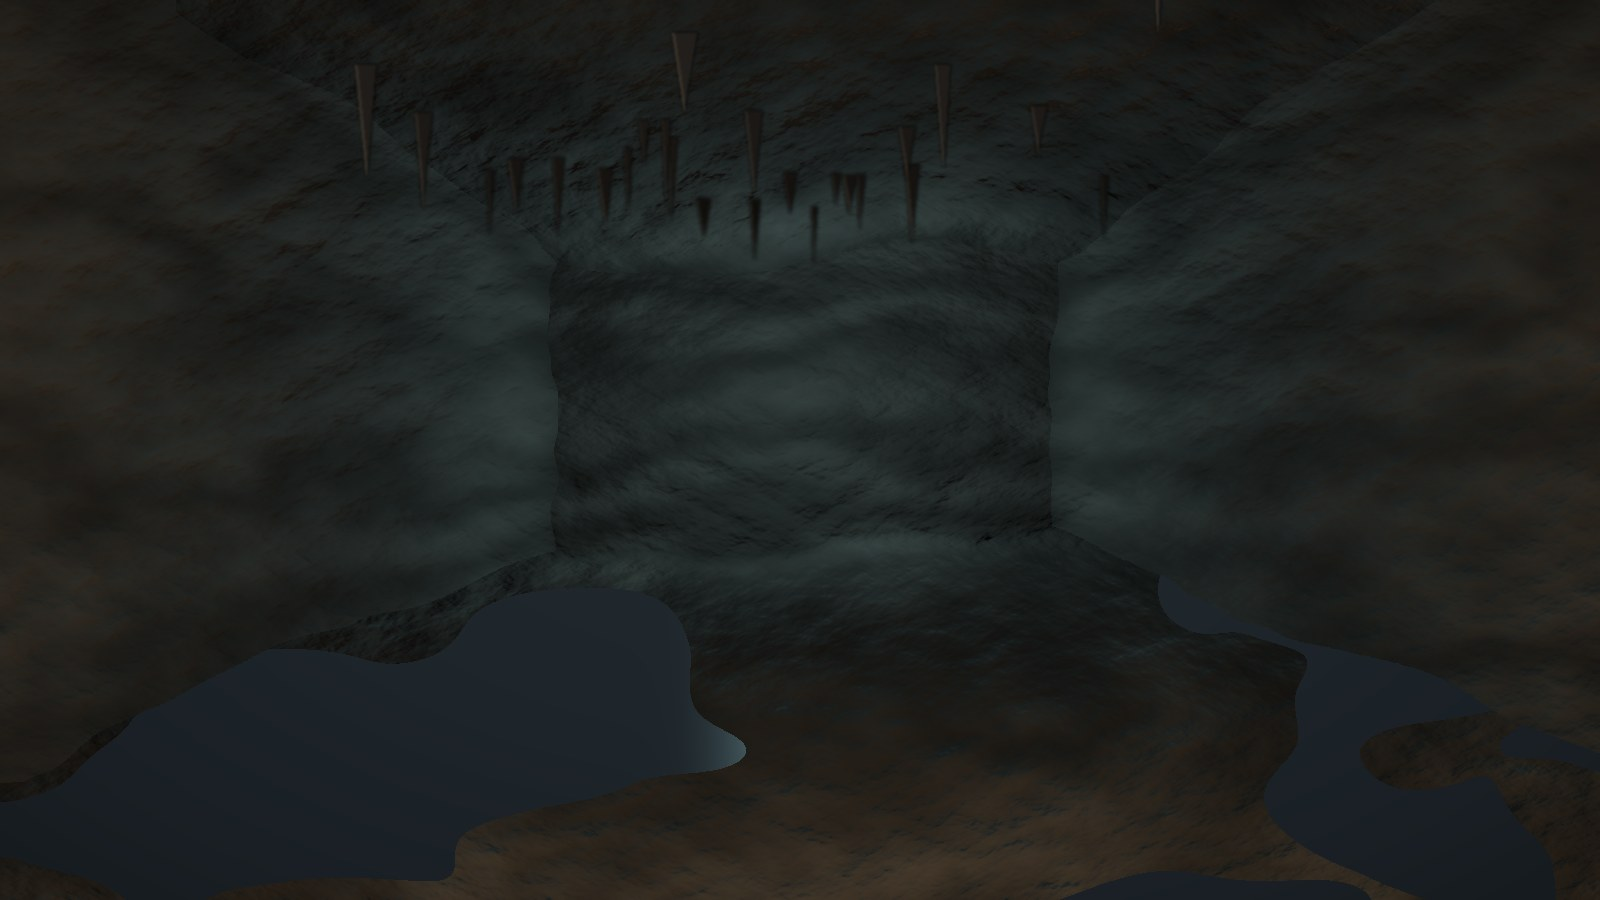
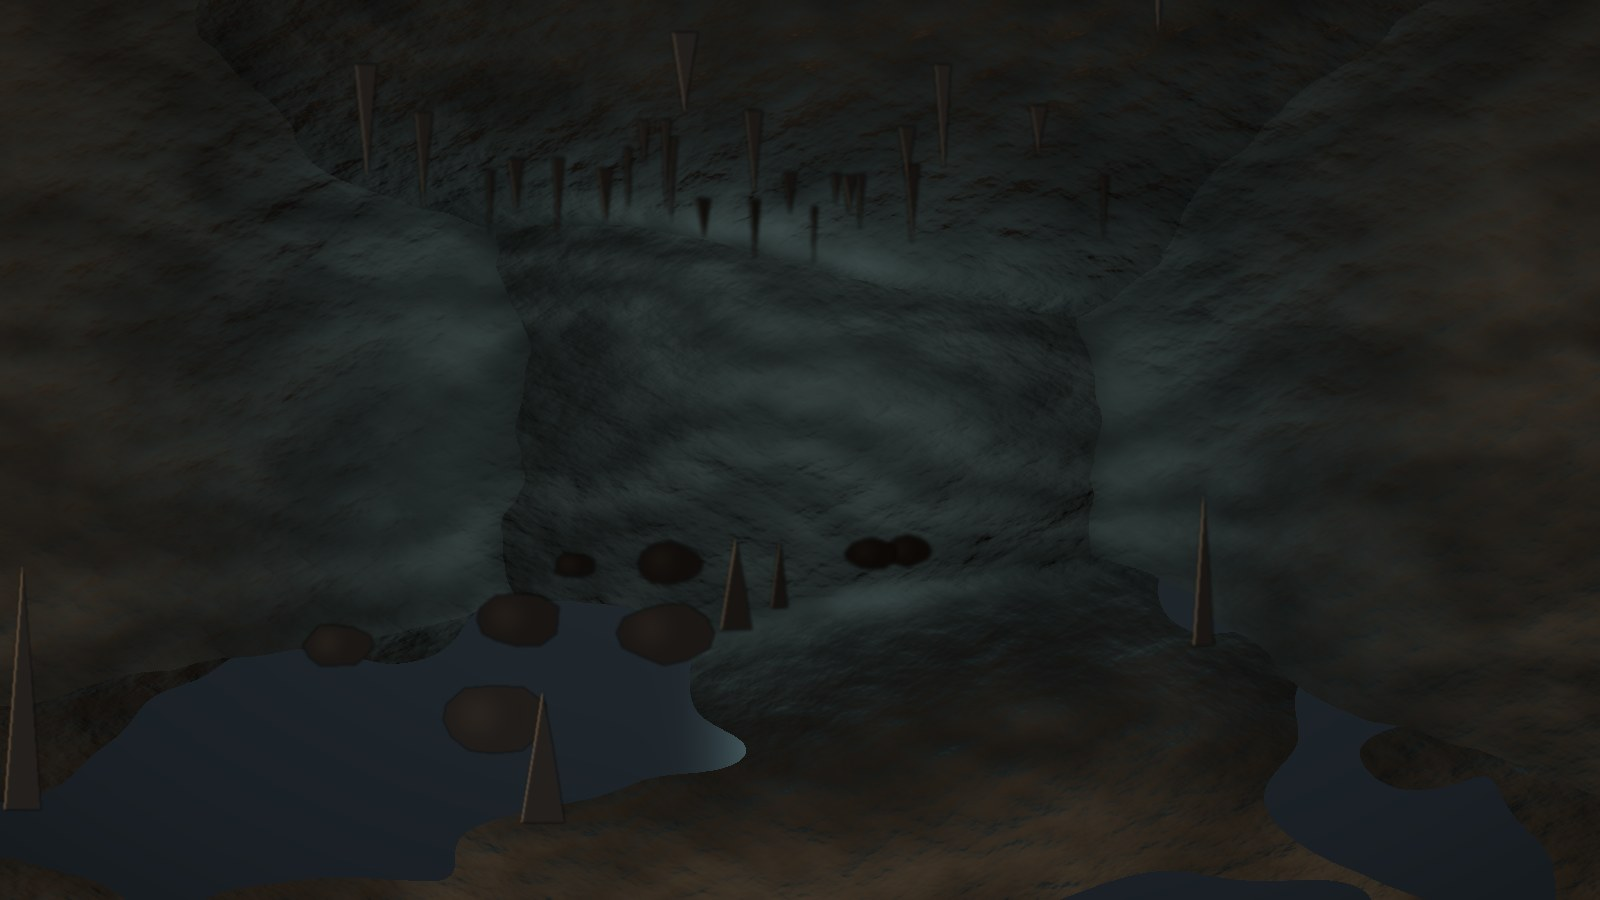
The first-unique scene rendered too; caves rounder, with rocks on the floor
- unique.jpg: a cloaked figure in a lit doorway at the end of a hall, its
  eyes shining, its shadow reaching toward you (scene_art_levels.py). It
  was the last public-domain painting: every scene picture is now rendered
  for AVABand, CC0. Credits, notices, README.
- Caverns and lairs: a broad warp bends the chamber's straight lines into
  curves (a fine one roughens them), and stalagmites and rounded, lit
  boulders stand on the floor.

diff --git a/tools/scene_art_levels.py b/tools/scene_art_levels.py
@@ -14,6 +14,7 @@ scene_art.py: surfaces in one-point perspective, lit by point lights.
   level-gauntlet.jpg   a narrow trapped corridor: plates in the floor, fire from the walls
   danger.jpg           a hall lit red from its far end, and many eyes
   death.jpg            a grave at dusk: a headstone, a dead tree, candles in the grass
+  unique.jpg           a figure in a doorway at the end of a hall, lit from behind, its eyes shining
 
 Needs numpy, scipy and Pillow. Usage: scene_art_levels.py <art folder> [name ...]
 """
@@ -151,9 +152,10 @@ def cave(seed, rock, tint_light, far_glow, water=True):
     light raking across bumps in it; pools on the floor. Returns the picture and its centre."""
     xs, ys = grid()
     # Warp where each pixel looks, so the chamber's edges and floor line come out ragged, like rock.
-    warp = 64
-    wx = (R.value_noise((H, W), 6, 4, seed=seed) - 0.5) * warp
-    wy = (R.value_noise((H, W), 6, 4, seed=seed + 1) - 0.5) * warp
+    # Two warps: a broad one that bends the chamber's straight lines into curves, and a fine one
+    # that roughens them.
+    wx = (R.value_noise((H, W), 2, 2, seed=seed + 20) - 0.5) * 260 + (R.value_noise((H, W), 9, 4, seed=seed) - 0.5) * 48
+    wy = (R.value_noise((H, W), 2, 2, seed=seed + 21) - 0.5) * 200 + (R.value_noise((H, W), 9, 4, seed=seed + 1) - 0.5) * 48
     kind, X, Y, Z, N = R.surfaces(-1.3, 0.8, 1.9, 10.0)
     ix = np.clip(xs + wx, 0, W - 1).astype(int)
     iy = np.clip(ys + wy, 0, H - 1).astype(int)
@@ -180,7 +182,48 @@ def cave(seed, rock, tint_light, far_glow, water=True):
     rgb = R.vignette(rgb, 0.55)
     img = R.to_image(rgb).convert("RGBA")
     stalactites(img, seed, VP)
+    stalagmites(img, seed, VP, tint_light)
     return img.convert("RGB"), VP
+
+
+def stalagmites(img, seed, centre, light):
+    """Rock rising from the floor, and boulders: dark, lit on the side toward your torch."""
+    rng = np.random.default_rng(seed + 80)
+    cx, cy = centre
+    rocks = sorted(((rng.uniform(1.4, 8.0), rng.uniform(-1.7, 1.7), rng.random()) for _ in range(16)), reverse=True)
+    lit = tuple(int(40 + 120 * c) for c in light)
+    for z, xw, kind in rocks:
+        if abs(xw) < 0.35 and z < 4:
+            continue                                            # (keep the way ahead clear)
+        x, base = cx + F * xw / z, cy + F * 0.8 / z
+        near = float(np.clip(1 - z / 8, 0, 1))
+        tone = int(12 + 34 * near)
+        layer = Image.new("RGBA", img.size, (0, 0, 0, 0))
+        d = ImageDraw.Draw(layer)
+        if kind < 0.55:   # a stalagmite
+            hgt, wid = F * rng.uniform(0.25, 0.6) / z, F * rng.uniform(0.07, 0.14) / z
+            pts = [(x - wid / 2, base), (x - wid * 0.2, base - hgt * 0.6), (x, base - hgt), (x + wid * 0.25, base - hgt * 0.55), (x + wid / 2, base)]
+        else:             # a boulder, rounded: dark, with a softer lit face toward the torch
+            if z < 2.5:
+                continue
+            r = F * rng.uniform(0.1, 0.2) / z
+            pts = [(x + math.cos(t) * r * rng.uniform(0.85, 1.1), base - r * 0.5 + math.sin(t) * r * 0.62 * rng.uniform(0.85, 1.1))
+                   for t in np.linspace(0, 2 * math.pi, 13)[:-1]]
+            d.polygon(pts, fill=(tone, tone - 3, tone - 5, 255))
+            face = Image.new("RGBA", img.size, (0, 0, 0, 0))
+            ImageDraw.Draw(face).ellipse([x - r * 0.75, base - r * 1.0, x + r * 0.15, base - r * 0.2], fill=lit + (int(40 + 70 * near),))
+            layer.alpha_composite(face.filter(ImageFilter.GaussianBlur(float(r / 3))))
+            mask = Image.new("L", img.size, 0)
+            ImageDraw.Draw(mask).polygon(pts, fill=255)
+            clipped = Image.new("RGBA", img.size, (0, 0, 0, 0))
+            clipped.paste(layer, (0, 0), mask)
+            img.alpha_composite(clipped.filter(ImageFilter.GaussianBlur(float(0.6 + 1.2 * (1 - near)))))
+            continue
+        d.polygon(pts, fill=(tone, tone - 3, tone - 5, 255))
+        side = [p for p in pts if p[0] <= x]
+        if len(side) > 1:
+            d.line(side, fill=lit + (int(90 + 100 * near),), width=max(1, int(3 * near + 1)))
+        img.alpha_composite(layer.filter(ImageFilter.GaussianBlur(float(0.7 + 1.3 * (1 - near)))))
 
 
 def stalactites(img, seed, centre):
@@ -452,6 +495,52 @@ def death():
     return img.convert("RGB")
 
 
+def unique():
+    """Meeting a unique: a hall ending in an arch, cold light behind it, and in the arch a tall
+    cloaked figure, its eyes shining, its shadow reaching down the floor toward you."""
+    back_z, half = 8.0, 1.6
+    kind, X, Y, Z, N = R.surfaces(-2.2, 0.7, half, back_z)
+    xs, ys = grid()
+    alb = np.zeros((H, W, 3))
+    wall = (0.33, 0.31, 0.3)
+    for k, u in ((0, X), (3, Z), (4, Z)):
+        m = kind == k
+        alb[m] = R.stone_blocks(u, Y, 0.34, 0.15, 110 + k, wall, 0.5)[m]
+    m = kind == 1
+    alb[m] = R.flagstones(X, Z, 0.5, 115, (0.3, 0.28, 0.27))[m]
+    m = kind == 2
+    alb[m] = R.stone_blocks(X, Z, 0.5, 0.5, 116, (0.14, 0.13, 0.13), 0.3)[m]
+    alb *= (R.value_noise((H, W), 50, 4, seed=117) * 0.5 + 0.75)[..., None]
+    # The arch in the far wall: a doorway (1.3 wide, 2.2 high, round-topped), open on cold light.
+    ax, aw, top = 0.0, 0.65, -1.5
+    arch = (kind == 0) & (np.abs(X - ax) < aw) & ((Y > top + aw) | (np.hypot(X - ax, Y - (top + aw)) < aw)) & (Y < 0.7)
+    lights = [((0.0, -0.8, back_z + 0.5), (0.7, 0.8, 1.0), 3.0, 2.6), ((0.3, -0.3, 0.5), (1.0, 0.65, 0.4), 0.7, 0.9)]
+    rgb = R.shade(alb, kind, X, Y, Z, N, lights, (0.002, 0.002, 0.003), 10.0)
+    glow = np.exp(-((xs - VP[0]) ** 2 / (2 * 90 ** 2) + (ys - (VP[1] + F * -0.3 / back_z)) ** 2 / (2 * 140 ** 2)))
+    rgb[arch] = (np.array([0.55, 0.64, 0.85]) * (0.55 + 0.9 * glow[..., None]))[arch]
+    # Its long shadow down the floor, toward you.
+    shadow = (kind == 1) & (np.abs(X - ax) < 0.18 + 0.05 * (back_z - Z)) & (Z < back_z)
+    rgb[shadow] *= np.clip(0.25 + 0.75 * (1 - (back_z - Z[shadow]) / back_z)[..., None] * 0 + 0.3, 0, 1)
+    rgb = R.vignette(rgb, 0.6)
+    img = R.to_image(rgb).convert("RGBA")
+    d = ImageDraw.Draw(img)
+    # The figure in the doorway: black against the light, tall, cloaked, a little hunched.
+    fx, fy = VP[0], VP[1] + F * 0.7 / back_z                     # its feet, on the far floor
+    h, w = F * 1.9 / back_z, F * 0.62 / back_z
+    body = [(fx - w * 0.5, fy), (fx - w * 0.42, fy - h * 0.45), (fx - w * 0.36, fy - h * 0.72), (fx - w * 0.2, fy - h * 0.86),
+            (fx - w * 0.16, fy - h * 0.98), (fx, fy - h * 1.04), (fx + w * 0.18, fy - h * 0.97), (fx + w * 0.22, fy - h * 0.85),
+            (fx + w * 0.4, fy - h * 0.7), (fx + w * 0.47, fy - h * 0.42), (fx + w * 0.55, fy)]
+    d.polygon(body, fill=(6, 6, 8, 255))
+    rim = Image.new("RGBA", img.size, (0, 0, 0, 0))
+    ImageDraw.Draw(rim).line(body + [body[0]], fill=(170, 190, 230, 120), width=3)
+    img.alpha_composite(rim.filter(ImageFilter.GaussianBlur(2)))
+    d.polygon(body, fill=(6, 6, 8, 255))                          # (the rim light only shows outside)
+    for ex in (fx - w * 0.07, fx + w * 0.07):
+        glow_sprite(img, ex, fy - h * 0.9, 9, (255, 70, 30), 200)
+        ImageDraw.Draw(img).ellipse([ex - 3, fy - h * 0.9 - 2, ex + 3, fy - h * 0.9 + 2], fill=(255, 200, 120, 255))
+    return img.convert("RGB")
+
+
 def main():
     out = sys.argv[1]
     wanted = sys.argv[2:]
@@ -475,6 +564,7 @@ PICTURES = {
     "level-gauntlet": level_gauntlet,
     "danger": danger,
     "death": death,
+    "unique": unique,
 }
 
 if __name__ == "__main__":

diff --git a/src/Angband.Avalonia/art/CREDITS.md b/src/Angband.Avalonia/art/CREDITS.md
@@ -1,10 +1,10 @@
 # Credits: art
 
-The pictures AVABand shows at moments of note. Most are made for AVABand (CC0), rendered by the tools named below; the first-unique scene is a public-domain work (its artist died more than a century ago), from a scan on Wikimedia Commons, with its licence tag given below. Your own pictures of the same names, in `<AppData>/AVABand/art/`, are shown instead.
+The pictures AVABand shows at moments of note. All are made for AVABand (CC0), rendered by the tools named below. Your own pictures of the same names, in `<AppData>/AVABand/art/`, are shown instead.
 
-## stairs-down.jpg, stairs-up.jpg, stairs-up-town.jpg, level-cavern.jpg, level-labyrinth.jpg, level-fortress.jpg, level-moria.jpg, level-lair.jpg, level-gauntlet.jpg, danger.jpg, death.jpg
+## unique.jpg, stairs-down.jpg, stairs-up.jpg, stairs-up-town.jpg, level-cavern.jpg, level-labyrinth.jpg, level-fortress.jpg, level-moria.jpg, level-lair.jpg, level-gauntlet.jpg, danger.jpg, death.jpg
 
-- **The stairs, the kinds of level, a deadly level, and death** — made for AVABand, rendered by `tools/scene_art_levels.py` (no source images; the same renderer as the Word of Recall's), so every scene matches: stairs going down into the dark and up toward grey light or the evening sky over the town; a rough cave with pools; a high labyrinth corridor with ways off it; a fortress wall with a red-lit gate; the dwarves' pillared halls; a lair of bones with eyes in the dark; a trapped corridor with jets of fire; a hall lit red, full of eyes; a headstone at dusk. These replace the public-domain paintings the scenes showed before.
+- **The stairs, the kinds of level, a deadly level, and death** — made for AVABand, rendered by `tools/scene_art_levels.py` (no source images; the same renderer as the Word of Recall's), so every scene matches: stairs going down into the dark and up toward grey light or the evening sky over the town; a rough cave with pools; a high labyrinth corridor with ways off it; a fortress wall with a red-lit gate; the dwarves' pillared halls; a lair of bones with eyes in the dark; a trapped corridor with jets of fire; a hall lit red, full of eyes; a headstone at dusk; a cloaked figure in a lit doorway, its eyes shining. These replace the public-domain paintings the scenes showed before.
 - Licence: CC0 1.0 (public-domain dedication).
 
 ## deep-descent.jpg, trapdoor.jpg, quest-complete.jpg, boss-slain.jpg
@@ -16,13 +16,6 @@ The pictures AVABand shows at moments of note. Most are made for AVABand (CC0), 
 
 - **The Word of Recall cutscene** — made for AVABand, rendered by `tools/recall_portal_art.py` (no source images): a torchlit dungeon room and the town square by day and by night, each with a rent torn in it; the rent's torn, crackling edge; and a vast incorporeal hand, open and closing. The game animates them together (`Controls/SceneView.cs`).
 - Licence: CC0 1.0 (public-domain dedication).
-
-## unique.jpg
-
-- **Inferno Canto XXXIV: Lucifer, King of Hell (Die Hölle, 1870 German edition)** — Gustave Doré (1832-1883), 1870 (print)
-- Source: https://commons.wikimedia.org/wiki/File:Inferno_Canto_34_(148619628).jpg
-- Licence: Public domain (Wikimedia Commons licence tag: {{PD-old-auto-expired|deathyear=1883}}; Commons LicenseShortName: 'Public domain')
-- Notes: Wood engraving; winged Lucifer frozen in Cocytus confronting the tiny figures of Dante and Virgil.
 
 ## title.jpg and title-logo.png
 

diff --git a/README.md b/README.md
@@ -972,8 +972,7 @@ A `GameSession` created with a seed and fed the same commands replays identicall
     `recall-dungeon`, `level-cavern`, `level-labyrinth`, `level-fortress`, `level-moria`,
     `level-lair`, `level-gauntlet`, `danger`, `unique` and `death`, as `.png`, `.jpg` or `.jpeg`
     (the bundled pictures are rendered for AVABand by `tools/scene_art_levels.py`, `scene_art.py` and
-    `recall_portal_art.py`, all in one style, CC0 — only the first-unique scene is still a
-    public-domain painting; `art/CREDITS.md` has them all).
+    `recall_portal_art.py`, all in one style, CC0; `art/CREDITS.md` has them all).
   - **Screen reader support** (AVABand's own; the option *Screen reader support*, **off by
     default**): the map is drawn, so a screen reader can't read it; with the option on, a live
     region announces what is said — every message of a turn together, each prompt with its question
@@ -1562,6 +1561,6 @@ Copyright (c) 2026 Lonnie Watson. AVABand is free software, released under the G
 License, version 2 (`LICENSE`) — the licence Angband itself is available under, since AVABand's
 game data is converted from Angband 4.2.5 and its rules follow Angband's source. The bundled
 tilesets and sounds carry their own (Creative Commons and similar) licences; the scene pictures are
-rendered for AVABand and CC0 (but for one public-domain painting), and the ambience loops and scene
+rendered for AVABand and CC0, and the ambience loops and scene
 sounds are CC0 (`art/CREDITS.md`, `ambience/CREDITS.md`, `scene-sounds/CREDITS.md`). See
 `THIRD-PARTY-NOTICES.md` for the details and credits.

diff --git a/THIRD-PARTY-NOTICES.md b/THIRD-PARTY-NOTICES.md
@@ -50,9 +50,7 @@ See `LICENSE.txt` / `CREDITS.txt` in each pack's folder.
 ## Scene pictures (`src/Angband.Avalonia/art`)
 
 The scene pictures are rendered for AVABand (`tools/scene_art_levels.py`, `tools/scene_art.py`,
-`tools/recall_portal_art.py`; no source images) and are CC0 — all but `unique.jpg`, a public-domain
-engraving by Gustave Doré (*Inferno*, Canto XXXIV) from a scan on Wikimedia Commons, whose title,
-source page and exact licence tag are in `art/CREDITS.md`.
+`tools/recall_portal_art.py`; no source images) and are CC0 (`art/CREDITS.md`).
 
 The title screen's picture (`title.jpg`, Thangorodrim over the gates of Angband) and logo
 (`title-logo.png`) were drawn for AVABand by `tools/title_art.py` and are CC0; the logo is set in

diff --git a/src/Angband.Avalonia/Assets/Help/11-whats-new.md b/src/Angband.Avalonia/Assets/Help/11-whats-new.md
@@ -5,6 +5,8 @@ played; this page keeps it all (Help → What's new...).
 
 ## 2026-09-30.3
 
+- **Meeting a unique** has a new picture too: a cloaked figure in a lit doorway. Every scene is now
+  rendered in the one style. The caverns and lairs are rounder, with rocks on the floor.
 - **Feats you'd already done** are filled in from your high scores: the depths, levels and wins
   of characters from before there were feats.
 
